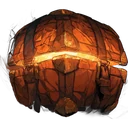
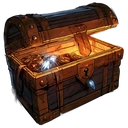
Butin de la semaine : nouveau nom, nouveau coffre peint et fiche qui explique tout
L'« Archive de la semaine » devient le « Butin de la semaine » (le nom se confondait avec les Archives de la Bibliothèque).
Toucher le bandeau ouvre une fiche : points gagnés par action, contenu de chaque cran, ouverture le lundi.
Nouvelle icône coffre peinte (Midjourney) à la place de l'ancienne, qui ressemblait à une citrouille.

Claude-Session: https://claude.ai/code/session_01YVrYiWoLNg9g9MUmb51nTK

diff --git a/src/ui/coquille.ts b/src/ui/coquille.ts
@@ -3,7 +3,7 @@
 
 import { moduleDef, porteurDef } from '../core/donnees';
 import { CHAPITRES, chapitreOuvert } from '../core/chroniques';
-import { ACCORD_OUVERT, CONFIANCE, CREUSEURS, niveauConfiance, cartesNouvelles, porteursNouveaux, creuseursRequis, energieParHeure, logementCreuseurs, manquePourCreuser, objectifCourant, rapportALire, stockage, strateVaincue, PILLAGE, flecheOuverte, type Jeu, type RapportMission } from '../core/jeu';
+import { ACCORD_OUVERT, ARCHIVE, CONFIANCE, CREUSEURS, niveauConfiance, cartesNouvelles, porteursNouveaux, creuseursRequis, energieParHeure, logementCreuseurs, manquePourCreuser, objectifCourant, rapportALire, stockage, strateVaincue, PILLAGE, flecheOuverte, type Jeu, type RapportMission } from '../core/jeu';
 import type { Lignee } from '../core/types';
 import { portrait } from './art';
 import { ICO, icone, type Icone } from './icones';
@@ -139,7 +139,7 @@ export function couts(j: Jeu, c: { energie?: number; composants?: number; eclats
 }
 
 /** La barre des ressources, toujours en haut */
-type Ressource = 'energie' | 'composants' | 'eclats' | 'strate' | 'confiance';
+type Ressource = 'energie' | 'composants' | 'eclats' | 'strate' | 'confiance' | 'butin';
 
 function hud(j: Jeu, ouverte: Ressource | null = null): string {
   const max = stockage(j);
@@ -196,7 +196,7 @@ function feuilleRessource(j: Jeu, r: Ressource | null | undefined): string {
       ligne('cartes', 'Le ravitaillement du jour', 'Quelques composants chaque jour.'),
       ligne('porteurs', 'Les missions', 'Un Porteur envoyé dans une Strate vaincue en rapporte à son retour.'),
       ligne('recycler', 'Recycler des doublons', 'Chaque doublon recyclé rapporte quelques composants.'),
-      ligne('coffre', 'L’Archive de la semaine', 'Chaque lundi, selon les paliers atteints.')];
+      ligne('coffre', 'Le Butin de la semaine', 'Chaque lundi, selon les paliers atteints.')];
     servir = [ligne('marteau', 'Améliorer les bâtiments', 'Avec l’énergie.'),
       ligne('cartes', 'Acheter au Comptoir', 'Des cartes précises, à prix fixe, renouvelées chaque jour.'),
       ligne('cartes', 'Monter une carte de niveau', 'Avec ses doublons.'),
@@ -207,7 +207,7 @@ function feuilleRessource(j: Jeu, r: Ressource | null | undefined): string {
     etat = `<b>${ent(j.eclats)}</b><small>Éclats en réserve</small>`;
     gagner = [ligne('strate', 'Les gardiens', 'Chaque gardien vaincu en donne, davantage à partir de la Strate −5.'),
       ligne('coffre', 'Les caches et les rencontres', 'À partir de la Strate −3, une cache en cache parfois un.'),
-      ligne('cristal', 'Les fouilles « Éclats » et les Archives de la semaine', 'Pour en gagner quand on bloque.')];
+      ligne('cristal', 'Les fouilles « Éclats » et le Butin de la semaine', 'Pour en gagner quand on bloque.')];
     servir = [ligne('marteau', 'Refabriquer les cartes rares', 'Argent, or et nacre en demandent à la Forge.'),
       ligne('cartes', 'Les cartes en argent du Comptoir', 'Elles coûtent aussi des Éclats.'),
       ligne('marteau', 'Les grands chantiers', 'Les derniers niveaux des bâtiments.')];
@@ -222,6 +222,23 @@ function feuilleRessource(j: Jeu, r: Ressource | null | undefined): string {
       ligne('porteurs', 'Certains choix en bas', 'Aider ceux qu’on croise se sait au quartier.')];
     servir = [ligne('ouvrier', 'Des creuseurs volontaires', `Chaque niveau atteint amène ${CREUSEURS.confiance} creuseur (s’il reste de la place à la Tour du Noyau).`),
       ligne('soin', 'L’Accord ouvert', `Au niveau ${ACCORD_OUVERT.confiance}, avec la Clinique au niveau ${ACCORD_OUVERT.clinique}, un nouveau Résonant rejoint le district.`)];
+  } else if (r === 'butin') {
+    // 28 octobre 2026 (Bryan : « c'est quoi en fait l'Archive de la semaine ») : la fiche explique tout, sans rien à deviner
+    const pts = j.archive.points;
+    const prochain = ARCHIVE.paliers.find((p) => pts < p);
+    const atteints = ARCHIVE.paliers.filter((p) => pts >= p).length;
+    surtitre = 'CHAQUE SEMAINE'; titre = 'Le Butin de la semaine';
+    resume = 'Tout ce que tu fais cette semaine remplit un coffre. Chaque cran atteint y ajoute des récompenses. Lundi, le coffre s’ouvre au district et une nouvelle semaine repart de zéro. Rien n’est jamais perdu : un cran atteint reste acquis.';
+    etat = `<b>${pts}</b> / ${ARCHIVE.paliers[ARCHIVE.paliers.length - 1]}<small>${prochain ? `Encore ${prochain - pts} points pour le cran ${atteints + 1}` : 'Tous les crans sont atteints : bravo'} · s’ouvre lundi</small>`;
+    gagner = [ligne('porte', 'Gagner un combat en bas', `+${ARCHIVE.points.combat} points.`),
+      ligne('strate', 'Finir une descente', `+${ARCHIVE.points.expedition} points.`),
+      ligne('marteau', 'Finir un chantier', `+${ARCHIVE.points.chantier} points.`),
+      ligne('cartes', 'Remplir l’objectif du jour', `+${ARCHIVE.points.quotidien} points.`)];
+    const d = ARCHIVE.paliers;
+    servir = [ligne('coffre', `Cran 1 · ${d[0]} points`, '40 composants et une carte au choix parmi trois.'),
+      ligne('cristal', `Cran 2 · ${d[1]} points`, '3 Éclats en plus.'),
+      ligne('cartes', `Cran 3 · ${d[2]} points`, 'Une deuxième carte au choix, dont au moins une en argent.'),
+      ligne('boost', `Cran 4 · ${d[3]} points`, 'Une troisième carte au choix avec de l’argent, et 5 Éclats de plus. Pour les plus assidus.')];
   } else {
     const manque = manquePourCreuser(j);
     surtitre = 'PROFONDEUR'; titre = `La Strate −${j.strate}`;
@@ -234,9 +251,9 @@ function feuilleRessource(j: Jeu, r: Ressource | null | undefined): string {
   }
   return `<div class="voile-feuille" data-action="ressource" data-id="" aria-hidden="true"></div><section class="feuille ressource-fiche res-${r}" role="dialog" aria-modal="true" aria-labelledby="res-titre"><span class="poignee" aria-hidden="true"></span>`
     + `<header class="feuille-tete"><div class="titres"><span class="surtitre">${surtitre}</span><h2 id="res-titre">${titre}</h2></div><button type="button" class="btn-icone" data-action="ressource" data-id="" aria-label="Fermer">${ICO.fermer}</button></header>`
-    + `<div class="feuille-corps"><div class="res-etat">${icone(r === 'confiance' ? 'district' : r)}<span>${etat}</span></div><p class="res-resume">${resume}</p>`
-    + `<h3 class="titre-bloc">Comment en obtenir</h3><ul class="res-liste">${gagner.join('')}</ul>`
-    + `<h3 class="titre-bloc">À quoi ça sert</h3><ul class="res-liste">${servir.join('')}</ul>`
+    + `<div class="feuille-corps"><div class="res-etat">${icone(r === 'confiance' ? 'district' : r === 'butin' ? 'coffre' : r)}<span>${etat}</span></div><p class="res-resume">${resume}</p>`
+    + `<h3 class="titre-bloc">${r === 'butin' ? 'Comment gagner des points' : 'Comment en obtenir'}</h3><ul class="res-liste">${gagner.join('')}</ul>`
+    + `<h3 class="titre-bloc">${r === 'butin' ? 'Ce que contient le coffre' : 'À quoi ça sert'}</h3><ul class="res-liste">${servir.join('')}</ul>`
     + (r === 'strate' ? `<button type="button" class="btn sec large" data-action="classements" data-id="profondeur">${ICO.monter}Voir le classement des profondeurs</button>` : '')
     + `</div></section>`;
 }

diff --git a/src/ui/district.ts b/src/ui/district.ts
@@ -260,11 +260,11 @@ function mission(e: EcranDistrict): string {
     barre = `<section class="mission jour replie barre" aria-label="Objectif du jour">`
       + `<button type="button" class="mj-aller" data-action="objectif-aller" data-id="${q.type}" aria-label="Objectif du jour : ${echap(def.titre)}, ${q.progres} sur ${def.objectif}. Y aller">`
       + `<span class="surtitre">Objectif</span><strong>${echap(def.titre)}</strong><b class="chiffre">${q.progres}/${def.objectif}</b>${ICO.lancer}</button>`
-      + `<button type="button" class="mj-plier mob" data-action="panneau" aria-expanded="false" aria-label="Voir l’Archive et le marché"><i aria-hidden="true">▾</i></button></section>`;
+      + `<button type="button" class="mj-plier mob" data-action="panneau" aria-expanded="false" aria-label="Voir le butin et le marché"><i aria-hidden="true">▾</i></button></section>`;
   }
   // avec la barre, le panneau complet n'est plus montré que sur PC (district.css)
   let h = barre + `<section class="mission jour${quotidienFait(j) ? ' faite' : ''}${replie ? ' replie' : ''}${barre ? ' pc-seul' : ''}" aria-label="Objectif du jour">`
-    + `<button type="button" class="mj-plier mob" data-action="panneau" aria-expanded="${!replie}" aria-label="${replie ? 'Voir l’Archive et le marché' : 'Réduire le panneau'}">${replie ? 'Détails' : 'Réduire'}<i aria-hidden="true">${replie ? '▾' : '▴'}</i></button><div class="mj-obj">`;
+    + `<button type="button" class="mj-plier mob" data-action="panneau" aria-expanded="${!replie}" aria-label="${replie ? 'Voir le butin et le marché' : 'Réduire le panneau'}">${replie ? 'Détails' : 'Réduire'}<i aria-hidden="true">${replie ? '▾' : '▴'}</i></button><div class="mj-obj">`;
   if (quotidienActif(j)) {
     const reserve = q.reserve > 1
       ? `<span class="mj-reserve pc" title="${q.reserve} objectifs en réserve : ils s’accumulent jusqu’à 3 si tu ne joues pas">${Array.from({ length: 3 }, (_, i) => `<i class="${i < q.reserve ? 'plein' : ''}"></i>`).join('')}<small>${q.reserve} en réserve</small></span>`
@@ -278,12 +278,14 @@ function mission(e: EcranDistrict): string {
   h += `</div>`;
   h += (j.chambre ? `<p class="rumeur"><b>Au marché</b> ${echap(rumeurDuJour(jourDe(Date.now()), j.strate))}</p>` : '');
   const reperes = ARCHIVE.paliers.map((p, i) => `<span class="${points >= p ? 'atteint' : ''}" style="left:${(p / max) * 100}%">${i === ARCHIVE.paliers.length - 1 ? '' : p}</span>`).join('');
-  h += `<div class="archive"><span class="mj-ico pc">${icone('coffre')}</span>`
-    + `<span class="surtitre mob">ARCHIVE · ${points}/${max}</span><span class="surtitre pc">ARCHIVE DE LA SEMAINE</span>`
+  // le Butin de la semaine (ex-« Archive », renommé le 28 octobre 2026 : on ne comprenait pas ce que c'était) : un toucher ouvre sa fiche
+  h += `<div class="archive" role="button" tabindex="0" data-action="ressource" data-id="butin" aria-label="Butin de la semaine : ${points} sur ${max} points. Comment ça marche">`
+    + `<span class="mj-ico pc">${icone('coffre')}</span>`
+    + `<span class="surtitre mob">BUTIN<i class="info-butin" aria-hidden="true">?</i></span><span class="surtitre pc">BUTIN DE LA SEMAINE<i class="info-butin" aria-hidden="true">?</i></span>`
     + `<span class="mj-valeur pc"><b>${points}</b>/${max}</span>`
     + `<div class="jauge reso">${crans}<i style="width:${Math.min(100, (100 * j.archive.points) / max)}%"></i></div>`
     + `<div class="mj-reperes pc" aria-hidden="true">${reperes}</div>`
-    + `<small><span class="pc">S’ouvre </span>${decompte(lundiSuivant(e.now), e.now, 'lundi, dans ')}</small></div>`;
+    + `<small><span class="mob"><b>${points}</b>/${max} · </span><span class="pc">S’ouvre </span>${decompte(lundiSuivant(e.now), e.now, 'lundi, dans ')}</small></div>`;
   return h + `</section>`;
 }
 
@@ -297,7 +299,7 @@ function appel(e: EcranDistrict): string {
     return `<button type="button" class="appel reso" data-action="rencontre">${ICO.porte}<span><strong>La porte scellée</strong><small>Sous la Tour du Noyau, trois personnes t’attendent</small></span></button>`;
   }
   if (j.archive.aOuvrir && !objectifCourant(j)) {
-    return `<button type="button" class="appel reso" data-action="ouvrir-archive">${icone('coffre')}<span><strong>L’Archive de la semaine est prête</strong><small>Palier ${j.archive.aOuvrir} sur ${ARCHIVE.paliers.length} atteint : ouvre-la</small></span></button>`;
+    return `<button type="button" class="appel reso" data-action="ouvrir-archive">${icone('coffre')}<span><strong>Le Butin de la semaine est prêt</strong><small>Palier ${j.archive.aOuvrir} sur ${ARCHIVE.paliers.length} atteint : ouvre-le</small></span></button>`;
   }
   if (colisDisponible(j)) {
     const reste = colisAvantChoix(j);
@@ -871,7 +873,7 @@ function fenetreLegs(e: EcranDistrict): string {
 
 function fenetreChoix(j: Jeu): string {
   const c = j.choix[0]!;
-  const titre = c.source === 'boss' ? 'Le boss laisse des empreintes' : c.source === 'quotidien' ? 'Objectif du jour' : c.source === 'ravitaillement' ? 'Le septième colis' : c.source === 'fouille' ? 'Le filon de la fouille' : c.source === 'epreuve' ? 'Épreuve réussie' : 'Archive de la semaine';
+  const titre = c.source === 'boss' ? 'Le boss laisse des empreintes' : c.source === 'quotidien' ? 'Objectif du jour' : c.source === 'ravitaillement' ? 'Le septième colis' : c.source === 'fouille' ? 'Le filon de la fouille' : c.source === 'epreuve' ? 'Épreuve réussie' : 'Butin de la semaine';
   return `<div class="voile" role="dialog" aria-modal="true" aria-labelledby="choix-titre"><div class="fenetre choix"><span class="surtitre">RÉCOMPENSE${j.choix.length > 1 ? ` · ENCORE ${j.choix.length - 1} APRÈS` : ''}</span><h2 id="choix-titre">${titre}</h2><p>Choisis une carte. Si tu l’as déjà, elle devient un doublon pour la faire monter.</p><small class="aide choix-loupe">Reste appuyé sur une carte pour lire son effet.</small><div class="cartes-choix">`
     + c.options.map((id, k) => carteMini(id, j, `data-action="prendre" data-index="${k}" data-carte="${id}"`, true)).join('')
     + `</div>${c.eclats ? `<button type="button" class="btn sec large" data-action="prendre" data-index="-1">Prendre ${prix('eclats', c.eclats)} à la place</button>` : ''}</div></div>`;

diff --git a/scripts/visuel.ts b/scripts/visuel.ts
@@ -34,6 +34,9 @@ const SCENES: { nom: string; sauvegarde: 'district' | 'combat' | 'debut' | 'flec
   { nom: 'forge', sauvegarde: 'district', faire: async (p) => { await ENTRER(p); await p.click('button.plaque[data-id="forge"]'); } },
   { nom: 'generateur', sauvegarde: 'district', faire: async (p) => { await ENTRER(p); await p.click('button.plaque[data-id="generateur"]'); } },
   { nom: 'noyau', sauvegarde: 'district', faire: async (p) => { await ENTRER(p); await p.click('button.plaque[data-id="noyau"]'); } },
+  // le Butin de la semaine (28 octobre 2026) : sur téléphone, on déplie d'abord le panneau, puis on touche le bandeau
+  { nom: 'butin', sauvegarde: 'district', faire: async (p) => { await ENTRER(p); const d = p.locator('.mj-plier.mob[data-action="panneau"]:visible').first(); if (await d.count()) { await d.click(); await p.waitForTimeout(250); } await p.click('.mission.jour .archive'); } },
+  { nom: 'panneau', sauvegarde: 'district', faire: async (p) => { await ENTRER(p); const d = p.locator('.mj-plier.mob[data-action="panneau"]:visible').first(); if (await d.count()) await d.click(); } },
   { nom: 'tour', sauvegarde: 'district', faire: async (p) => { await ENTRER(p); await p.click('.onglet[data-action="coupe"]'); } },
   { nom: 'porteurs', sauvegarde: 'district', faire: async (p) => { await ENTRER(p); await p.click('.onglet[data-action="porteurs"]'); } },
   { nom: 'deck-echange', sauvegarde: 'district', faire: async (p) => { await ENTRER(p); await p.click('.onglet[data-action="porteurs"]'); await p.click('.eq-gerer'); await p.click('.deck-porteur [data-action="dk-porte"]'); } },

diff --git a/src/ui/styles.css b/src/ui/styles.css
@@ -712,3 +712,11 @@ button.res:focus-visible{outline:1.5px solid var(--glace,#CDEFFF);outline-offset
 .rm-ligne summary small{font-size:12px;color:var(--quiet)}
 .rm-ligne[open]{display:grid;gap:10px}
 .rm-ligne[open] .rm-recit{margin-top:4px}
+
+/* ---------- Butin de la semaine (28 octobre 2026) : le bandeau se touche pour ouvrir sa fiche ---------- */
+.mission.jour .archive{cursor:pointer;-webkit-tap-highlight-color:transparent;transition:transform .12s ease,filter .12s ease}
+.mission.jour .archive:active{transform:scale(.985);filter:brightness(1.12)}
+.mission.jour .archive:focus-visible{outline:2px solid #C8B4FF;outline-offset:2px}
+.info-butin{display:inline-grid;place-items:center;width:15px;height:15px;margin-left:7px;border-radius:50%;vertical-align:1px;
+  font:700 10px/1 var(--mono);font-style:normal;color:#0B1024;background:#C8B4FF;box-shadow:0 0 8px rgba(200,180,255,.55)}
+.ressource-fiche.res-butin .res-etat .ico{color:#D3C4F7}

diff --git a/src/core/partie/recompenses.ts b/src/core/partie/recompenses.ts
@@ -132,14 +132,14 @@ export function reclamerQuotidien(j: Jeu): Resultat {
 /** Ouvre l'Archive de la semaine passée */
 export function ouvrirArchive(j: Jeu): Resultat {
   const n = j.archive.aOuvrir;
-  if (!n) return non('L’Archive n’est pas encore prête.');
+  if (!n) return non('Le Butin de la semaine n’est pas encore prêt.');
   j.composants += 40;
   j.choix.push({ source: 'archive', options: tirerChoix(j, j.strate) });
   if (n >= 2) j.eclats += 3;
   if (n >= 3) j.choix.push({ source: 'archive', options: tirerChoix(j, j.strate, 'argent') });
   if (n >= 4) { j.choix.push({ source: 'archive', options: tirerChoix(j, j.strate, 'argent') }); j.eclats += 5; }
   j.archive.aOuvrir = 0;
-  log(j, `Archive de la semaine ouverte : palier ${n} sur ${ARCHIVE.paliers.length}.`);
+  log(j, `Butin de la semaine ouvert : palier ${n} sur ${ARCHIVE.paliers.length}.`);
   return { ok: true };
 }
 

diff --git a/src/core/partie/temps.ts b/src/core/partie/temps.ts
@@ -82,7 +82,7 @@ export function tick(j: Jeu, now: number): string[] {
     const paliers = ARCHIVE.paliers.filter((p) => j.archive.points >= p).length;
     if (paliers > 0) {
       j.archive.aOuvrir = Math.max(j.archive.aOuvrir, paliers);
-      const t = 'L’Archive de la semaine est prête à être ouverte.';
+      const t = 'Le Butin de la semaine est prêt à être ouvert.';
       log(j, t);
       nouvelles.push(t);
     }
